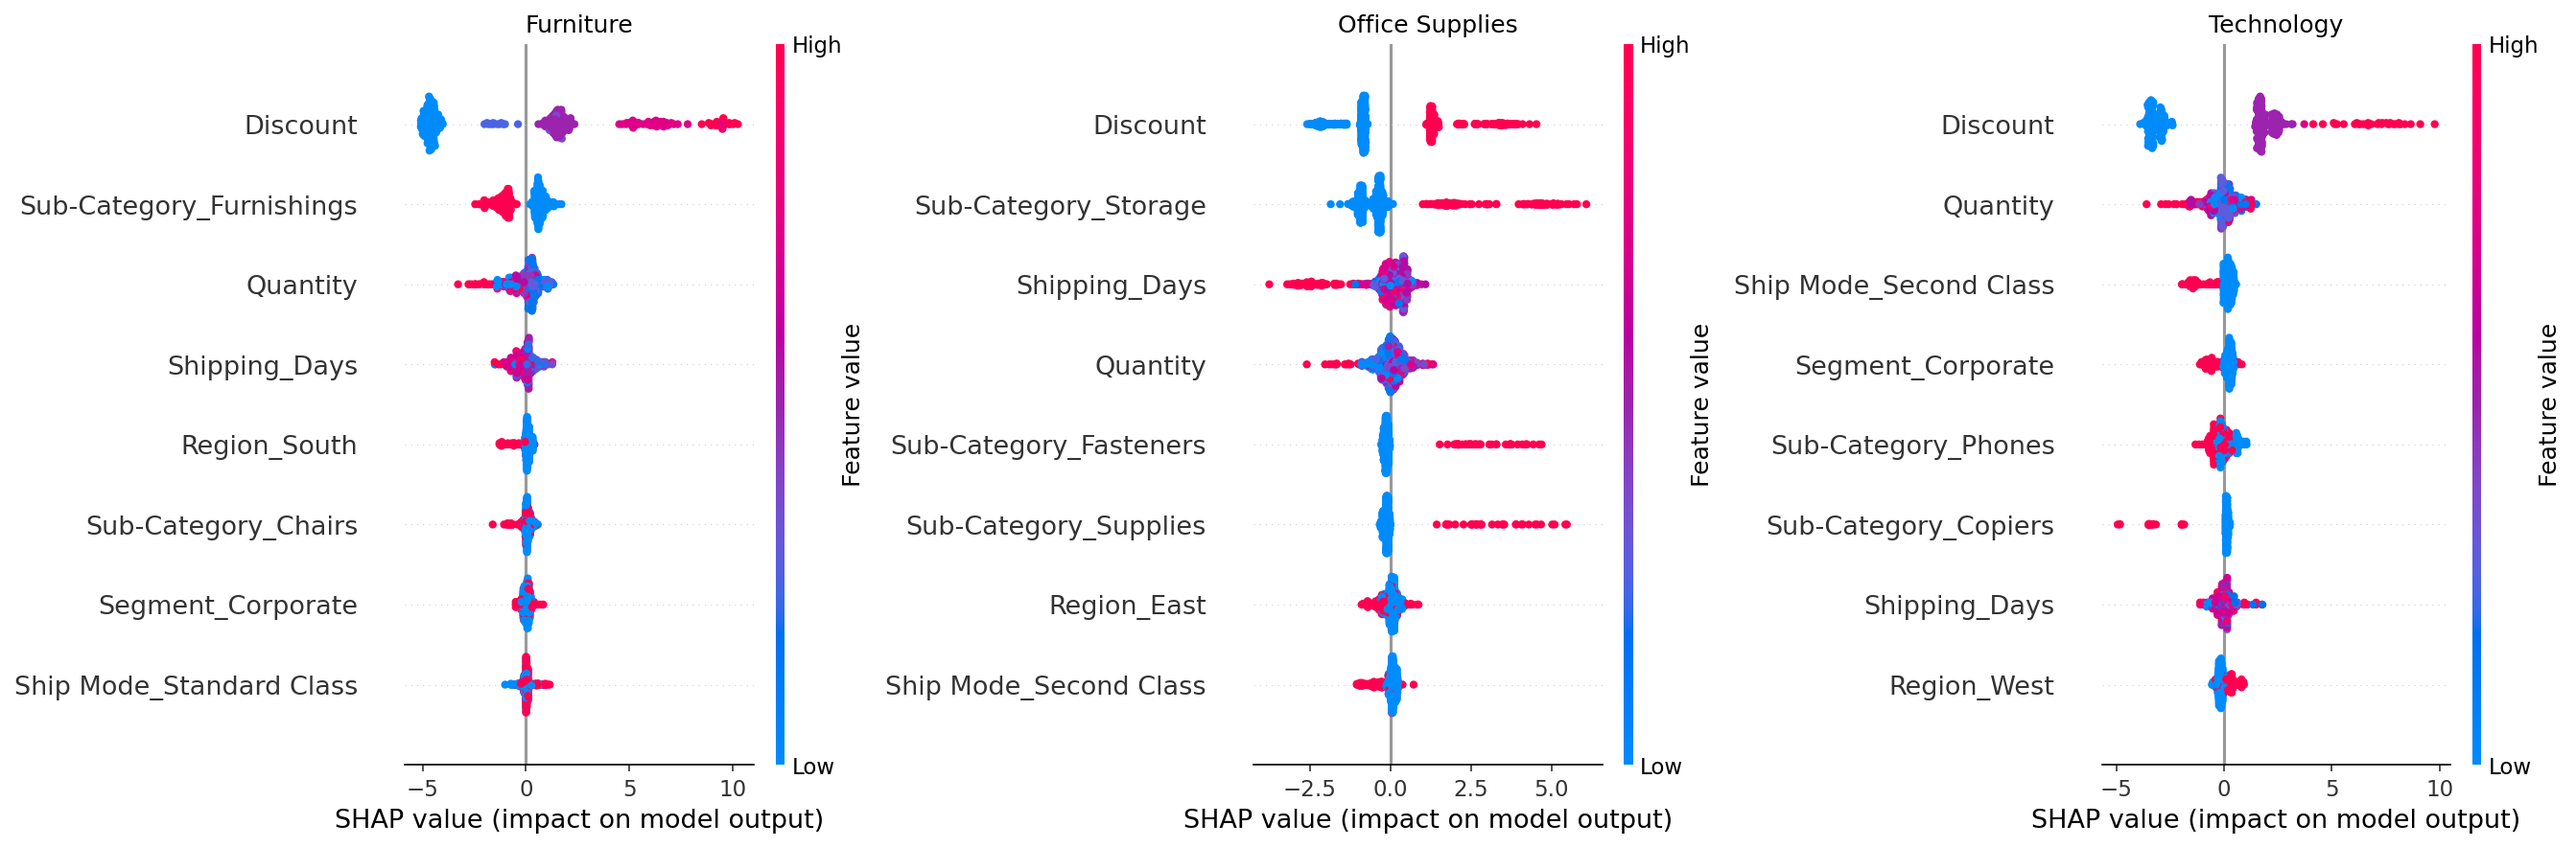
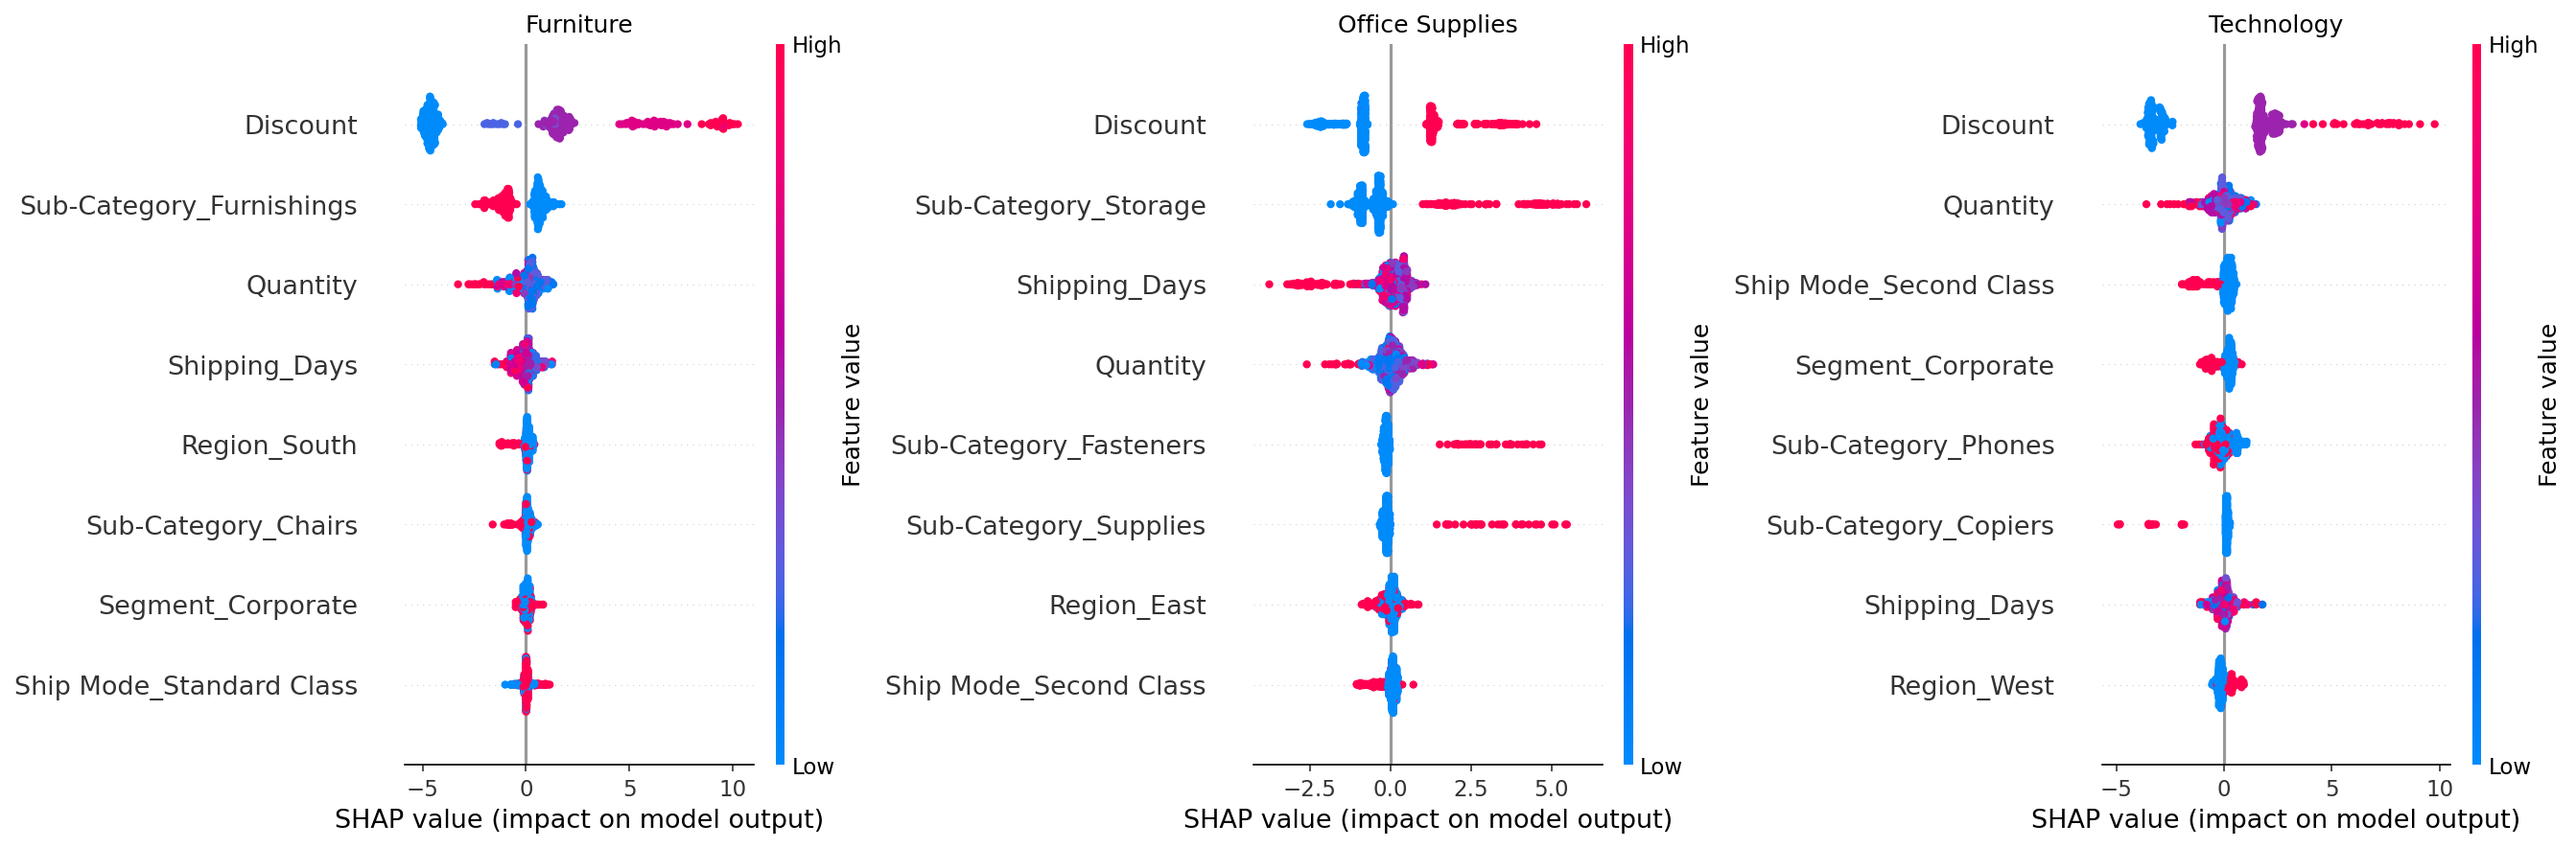
feat: integrate Census socioeconomic features

diff --git a/src/data_loader.py b/src/data_loader.py
@@ -6,6 +6,10 @@
 # We filter Discount > 50%: those transactions are 100% unprofitable across all categories, so no model needed.
 
 import os
+from urllib.parse import urlencode
+from urllib.request import Request, urlopen
+from urllib.error import HTTPError, URLError
+import json
 import pandas as pd
 from sklearn.model_selection import train_test_split
 from sklearn.preprocessing import StandardScaler, OrdinalEncoder
@@ -14,6 +18,171 @@ RANDOM_STATE = 42
 
 # Project root = one folder above src/
 PROJECT_ROOT = os.path.dirname(os.path.dirname(os.path.abspath(__file__)))
+CENSUS_YEAR = 2023
+STATE_FIPS = {
+    "Alabama": "01", "Alaska": "02", "Arizona": "04", "Arkansas": "05",
+    "California": "06", "Colorado": "08", "Connecticut": "09",
+    "Delaware": "10", "District of Columbia": "11", "Florida": "12",
+    "Georgia": "13", "Hawaii": "15", "Idaho": "16", "Illinois": "17",
+    "Indiana": "18", "Iowa": "19", "Kansas": "20", "Kentucky": "21",
+    "Louisiana": "22", "Maine": "23", "Maryland": "24",
+    "Massachusetts": "25", "Michigan": "26", "Minnesota": "27",
+    "Mississippi": "28", "Missouri": "29", "Montana": "30",
+    "Nebraska": "31", "Nevada": "32", "New Hampshire": "33",
+    "New Jersey": "34", "New Mexico": "35", "New York": "36",
+    "North Carolina": "37", "North Dakota": "38", "Ohio": "39",
+    "Oklahoma": "40", "Oregon": "41", "Pennsylvania": "42",
+    "Rhode Island": "44", "South Carolina": "45", "South Dakota": "46",
+    "Tennessee": "47", "Texas": "48", "Utah": "49", "Vermont": "50",
+    "Virginia": "51", "Washington": "53", "West Virginia": "54",
+    "Wisconsin": "55", "Wyoming": "56",
+}
+
+
+def _load_census_reporter_features(states):
+    """Fetch equivalent ACS indicators from the public Census Reporter API."""
+    unknown_states = sorted(set(states).difference(STATE_FIPS))
+    if unknown_states:
+        raise ValueError(f"Unknown transaction states: {unknown_states}")
+
+    geo_ids = ",".join(
+        f"04000US{STATE_FIPS[state]}" for state in sorted(set(states))
+    )
+    url = (
+        "https://api.censusreporter.org/1.0/data/show/latest?"
+        f"table_ids=B19013,B01003,B23025&geo_ids={geo_ids}"
+    )
+    request = Request(url, headers={"User-Agent": "DRIP-ML-project/1.0"})
+    try:
+        with urlopen(request, timeout=30) as response:
+            payload = json.load(response)
+    except (OSError, URLError, TimeoutError, json.JSONDecodeError) as exc:
+        raise RuntimeError(
+            "Could not download public ACS data from Census Reporter."
+        ) from exc
+
+    rows = []
+    for state in sorted(set(states)):
+        geo_id = f"04000US{STATE_FIPS[state]}"
+        try:
+            data = payload["data"][geo_id]
+            income = data["B19013"]["estimate"]["B19013001"]
+            population = data["B01003"]["estimate"]["B01003001"]
+            labor_force = data["B23025"]["estimate"]["B23025003"]
+            unemployed = data["B23025"]["estimate"]["B23025005"]
+        except (KeyError, TypeError) as exc:
+            raise RuntimeError(
+                f"Census Reporter returned incomplete data for {state}."
+            ) from exc
+        rows.append({
+            "state_name": state,
+            "median_household_income": income,
+            "population": population,
+            "unemployment_rate": unemployed / labor_force * 100,
+        })
+    return pd.DataFrame(rows)
+
+
+def load_census_state_features(year=CENSUS_YEAR):
+    """Fetch state-level ACS indicators used as external model features."""
+    variables = {
+        "NAME": "state_name",
+        "B19013_001E": "median_household_income",
+        "B01003_001E": "population",
+        "B23025_003E": "labor_force",
+        "B23025_005E": "unemployed",
+    }
+    query_params = {
+        "get": ",".join(variables),
+        "for": "state:*",
+    }
+    api_key = os.getenv("CENSUS_API_KEY")
+    if not api_key:
+        return _load_census_reporter_features(STATE_FIPS)
+    if api_key:
+        query_params["key"] = api_key
+    query = urlencode(query_params)
+    url = f"https://api.census.gov/data/{year}/acs/acs5?{query}"
+    request = Request(url, headers={"User-Agent": "DRIP-ML-project/1.0"})
+
+    try:
+        with urlopen(request, timeout=30) as response:
+            payload = json.load(response)
+    except HTTPError as exc:
+        raise RuntimeError(
+            f"Census API request failed with HTTP {exc.code}. Check that "
+            "CENSUS_API_KEY is valid and enabled."
+        ) from exc
+    except (OSError, URLError, TimeoutError) as exc:
+        raise RuntimeError(
+            f"Could not download ACS Census data for {year} from {url}"
+        ) from exc
+    except json.JSONDecodeError as exc:
+        message = (
+            "The Census API did not return JSON. Set CENSUS_API_KEY to a "
+            "valid Census API key and try again."
+        )
+        raise RuntimeError(message) from exc
+
+    if len(payload) < 2 or not isinstance(payload[0], list):
+        raise RuntimeError("The Census API returned no state records.")
+
+    census = pd.DataFrame(payload[1:], columns=payload[0])
+    census = census.rename(columns=variables)
+    numeric_columns = [
+        "median_household_income", "population", "labor_force", "unemployed"
+    ]
+    for column in numeric_columns:
+        census[column] = pd.to_numeric(census[column], errors="coerce")
+
+    census["unemployment_rate"] = (
+        census["unemployed"] / census["labor_force"].replace(0, pd.NA) * 100
+    )
+    return census[
+        ["state_name", "median_household_income", "population",
+         "unemployment_rate"]
+    ]
+
+
+def merge_census_state_features(df, census=None, year=CENSUS_YEAR):
+    """Merge ACS state indicators into transaction data using State."""
+    if "State" not in df.columns:
+        raise ValueError("Transaction data must contain a 'State' column.")
+
+    if census is None:
+        census = load_census_state_features(year=year)
+
+    required = {
+        "state_name", "median_household_income", "population",
+        "unemployment_rate",
+    }
+    missing = required.difference(census.columns)
+    if missing:
+        raise ValueError(
+            f"Census data is missing required columns: {sorted(missing)}"
+        )
+
+    merged = df.merge(
+        census,
+        left_on="State",
+        right_on="state_name",
+        how="left",
+        validate="many_to_one",
+    ).drop(columns=["state_name"])
+
+    feature_columns = [
+        "median_household_income", "population", "unemployment_rate"
+    ]
+    if merged[feature_columns].isna().any().any():
+        missing_states = sorted(
+            merged.loc[
+                merged[feature_columns].isna().any(axis=1), "State"
+            ].unique()
+        )
+        raise ValueError(
+            f"Census data did not match transaction states: {missing_states}"
+        )
+    return merged
 
 
 def load_and_prepare(filepath=None):
@@ -39,7 +208,7 @@ def load_and_prepare(filepath=None):
     return df
 
 
-def get_features(df, include_category=True):
+def get_features(df, include_category=True, include_census=False):
     """
     Build the feature matrix X and target vector y.
 
@@ -57,6 +226,10 @@ def get_features(df, include_category=True):
     """
 
     numeric_cols = ["Quantity", "Discount", "Shipping_Days"]
+    if include_census:
+        numeric_cols += [
+            "median_household_income", "population", "unemployment_rate"
+        ]
 
     if include_category:
         cat_cols = ["Category", "Sub-Category", "Segment", "Ship Mode", "Region"]

diff --git a/src/11_external_census.py b/src/11_external_census.py
@@ -1,0 +1,73 @@
+"""Measure whether state-level Census indicators add predictive value."""
+
+import os
+import sys
+
+from sklearn.linear_model import LogisticRegression
+from sklearn.metrics import f1_score, roc_auc_score
+
+sys.path.insert(0, os.path.dirname(os.path.abspath(__file__)))
+
+from data_loader import (
+    get_features,
+    load_and_prepare,
+    merge_census_state_features,
+    scale_features,
+    split_data,
+)
+
+
+def evaluate(df, include_census):
+    """Train and evaluate a logistic-regression model on the validation split."""
+    X, y = get_features(
+        df, include_category=True, include_census=include_census
+    )
+    X_train, X_val, _, y_train, y_val, _ = split_data(X, y)
+    X_train_s, X_val_s, _ = scale_features(X_train, X_val)
+
+    model = LogisticRegression(C=1.0, max_iter=1000, random_state=42)
+    model.fit(X_train_s, y_train)
+    predictions = model.predict(X_val_s)
+    probabilities = model.predict_proba(X_val_s)[:, 1]
+    return f1_score(y_val, predictions), roc_auc_score(y_val, probabilities)
+
+
+def main():
+    """Run the baseline and optional Census-feature comparison."""
+    df = load_and_prepare()
+
+    print("=" * 60)
+    print("EXTERNAL CENSUS FEATURE INTEGRATION")
+    print("=" * 60)
+    print(
+        "ACS indicators: median household income, population, and "
+        "unemployment rate (state level)"
+    )
+    print()
+
+    baseline_f1, baseline_auc = evaluate(df, include_census=False)
+    print(
+        f"Transaction features only: F1={baseline_f1:.3f}, "
+        f"AUC-ROC={baseline_auc:.3f}"
+    )
+
+    try:
+        df_census = merge_census_state_features(df)
+    except RuntimeError as exc:
+        print("\nCensus comparison skipped:")
+        print(f"  {exc}")
+        print(
+            "\nThe baseline model ran successfully. Set CENSUS_API_KEY and "
+            "rerun this script to include the external features."
+        )
+    else:
+        print(f"Transactions matched: {len(df_census):,}")
+        census_f1, census_auc = evaluate(df_census, include_census=True)
+        print(
+            f"Transaction + Census features: F1={census_f1:.3f}, "
+            f"AUC-ROC={census_auc:.3f}"
+        )
+
+
+if __name__ == "__main__":
+    main()

diff --git a/README.md b/README.md
@@ -62,6 +62,18 @@ python 07_rf_per_category.py     # 3 Random Forests (professor's feedback)
 python 08_discount_thresholds.py # Category-specific discount limits
 python 09_error_analysis.py      # False positive/negative analysis
 python 10_final_evaluation.py    # Final test set evaluation (run ONCE)
+python 11_external_census.py     # Compare models with state-level Census features
+```
+
+`11_external_census.py` downloads state-level American Community Survey indicators
+(median household income, population, and unemployment rate), merges them using
+each transaction's state, and compares validation performance with and without
+the external features. It uses the public Census Reporter ACS endpoint by
+default; an official Census API key can optionally be supplied:
+
+```bash
+export CENSUS_API_KEY="your-census-api-key"
+python 11_external_census.py
 ```
 
 What each script does:
@@ -78,6 +90,7 @@ What each script does:
 | `08_discount_thresholds.py` | Find max safe discount per category | `figures/discount_thresholds.png` |
 | `09_error_analysis.py` | Analyze where the model fails | False positive/negative breakdown |
 | `10_final_evaluation.py` | Final evaluation on held-out test set | F1 with 95% confidence intervals |
+| `11_external_census.py` | Test state-level Census features | Comparison with and without external data |
 
 ---
 
@@ -104,7 +117,8 @@ ML-and-Comskills-project/
     ├── 07_rf_per_category.py
     ├── 08_discount_thresholds.py
     ├── 09_error_analysis.py
-    └── 10_final_evaluation.py
+    ├── 10_final_evaluation.py
+    └── 11_external_census.py
 ```
 
 
